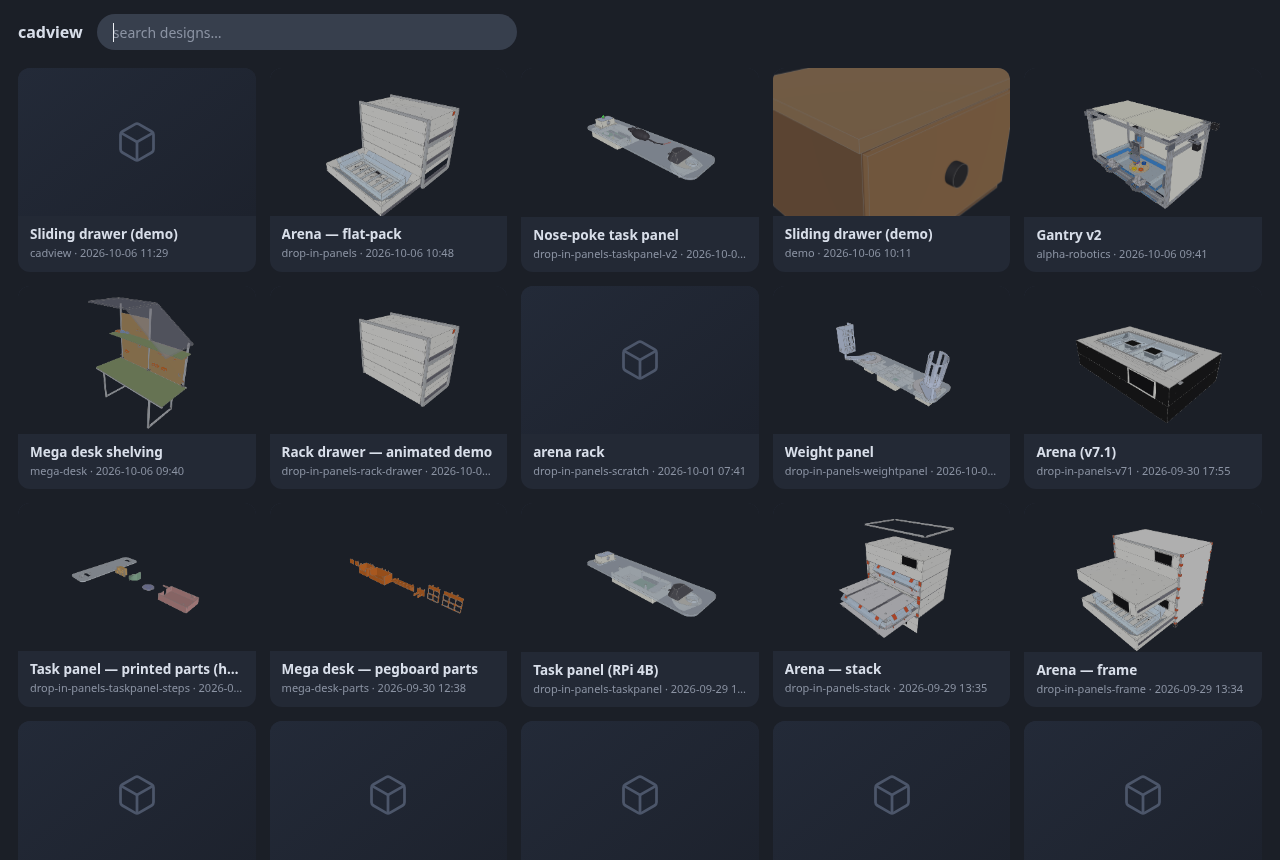
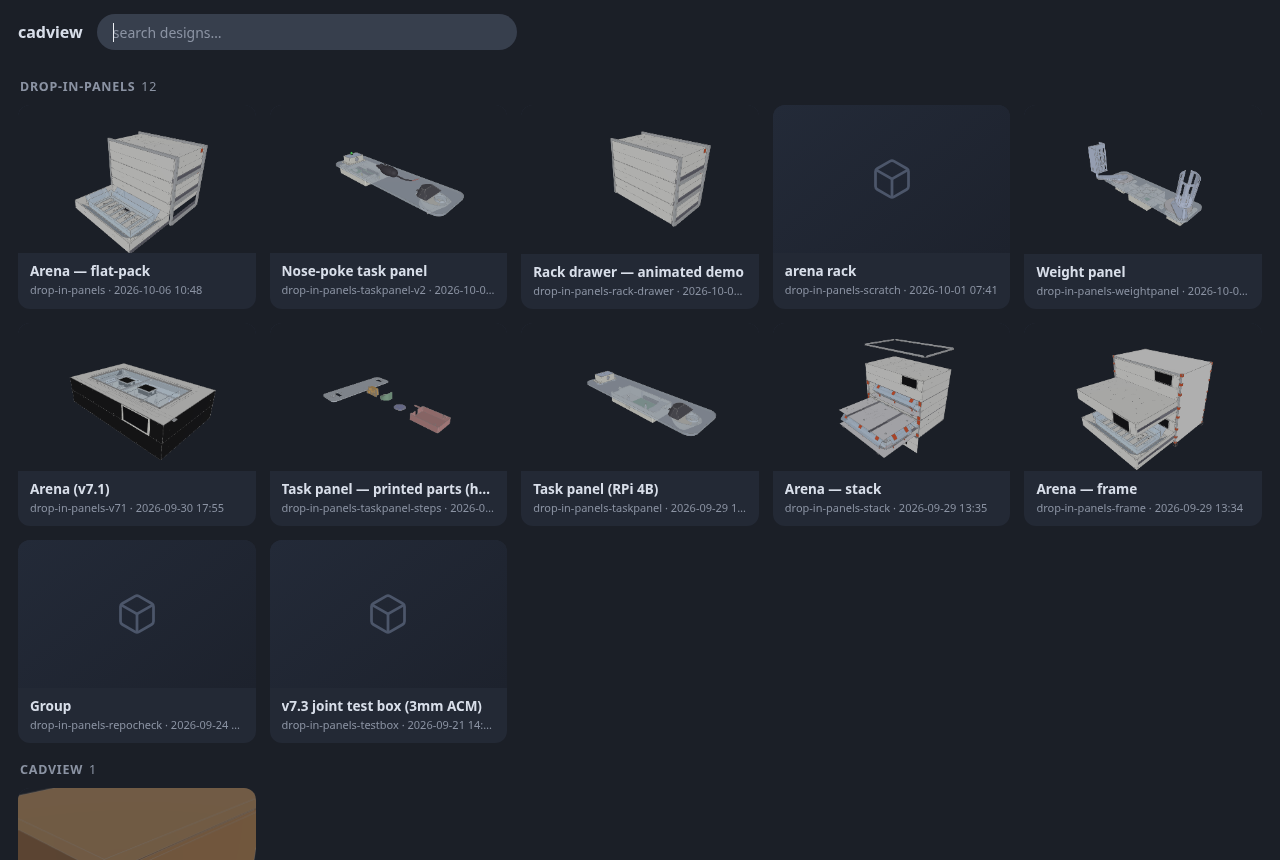
gallery: sectioned by project folder

diff --git a/cadview/static/lite/gallery.html b/cadview/static/lite/gallery.html
@@ -17,7 +17,12 @@
             padding: 0 16px; background: rgba(59, 66, 82, 0.9); color: #eceff4;
             font: 14px system-ui, sans-serif; outline: none; }
         #q::placeholder { color: #8b93a3; }
-        #grid { display: grid; gap: 14px; padding: 12px 18px 24px;
+        #groups { padding: 4px 18px 24px; }
+        .ghead { font-size: 12.5px; font-weight: 650; color: #8b93a3;
+            text-transform: uppercase; letter-spacing: 0.06em;
+            margin: 18px 2px 10px; }
+        .ghead .n { font-weight: 400; margin-left: 6px; }
+        .grid { display: grid; gap: 14px;
             grid-template-columns: repeat(auto-fill, minmax(230px, 1fr)); }
         .card { background: rgba(37, 44, 58, 0.8); border-radius: 12px;
             overflow: hidden; cursor: pointer; text-decoration: none; color: inherit;
@@ -41,50 +46,75 @@
         <h1>cadview</h1>
         <input id="q" type="search" placeholder="search designs…" autofocus />
     </header>
-    <div id="grid"></div>
+    <div id="groups"></div>
     <div id="none">nothing matches</div>
     <script>
         const PH = '<svg class="ph" width="44" height="44" viewBox="0 0 24 24" fill="none" stroke="currentColor" stroke-width="1.5"><path d="M21 16V8a2 2 0 0 0-1-1.73l-7-4a2 2 0 0 0-2 0l-7 4A2 2 0 0 0 3 8v8a2 2 0 0 0 1 1.73l7 4a2 2 0 0 0 2 0l7-4A2 2 0 0 0 21 16z"/><polyline points="3.3 7 12 12 20.7 7"/><line x1="12" y1="22" x2="12" y2="12"/></svg>';
         let rows = [];
-        const grid = document.getElementById("grid");
+        const groupsEl = document.getElementById("groups");
         const none = document.getElementById("none");
         const q = document.getElementById("q");
 
+        function card(r) {
+            const a = document.createElement("a");
+            a.className = "card";
+            a.href = "/" + encodeURIComponent(r.project);
+            const im = document.createElement("div");
+            im.className = "im";
+            const img = document.createElement("img");
+            img.loading = "lazy";
+            img.src = `/thumbs/${encodeURIComponent(r.project)}.png?v=${encodeURIComponent(r.received_at || "")}`;
+            img.onerror = () => { img.remove(); im.innerHTML = PH; };
+            im.append(img);
+            const meta = document.createElement("div");
+            meta.className = "meta";
+            const t = document.createElement("div");
+            t.className = "t";
+            t.textContent = r.title || r.name || r.project;
+            const s = document.createElement("div");
+            s.className = "s";
+            const when = (r.received_at || "").replace("T", " ").replace(/:\d\d[+-].*$/, "");
+            s.textContent = [r.project, when].filter(Boolean).join(" · ");
+            meta.append(t, s);
+            a.append(im, meta);
+            return a;
+        }
+
         function render() {
+            // one section per project folder — a fresh clone's server shows
+            // exactly its own designs; multi-repo servers get headers
             const needle = q.value.trim().toLowerCase();
-            grid.textContent = "";
-            let shown = 0;
+            groupsEl.textContent = "";
+            const byGroup = new Map();
             for (const r of rows) {
                 const hay = `${r.title || ""} ${r.name || ""} ${r.project} ${r.group || ""}`.toLowerCase();
                 if (needle && !hay.includes(needle)) continue;
-                shown++;
-                const a = document.createElement("a");
-                a.className = "card";
-                a.href = "/" + encodeURIComponent(r.project);
-                const im = document.createElement("div");
-                im.className = "im";
-                const img = document.createElement("img");
-                img.loading = "lazy";
-                img.src = `/thumbs/${encodeURIComponent(r.project)}.png?v=${encodeURIComponent(r.received_at || "")}`;
-                img.onerror = () => { img.remove(); im.innerHTML = PH; };
-                im.append(img);
-                const meta = document.createElement("div");
-                meta.className = "meta";
-                const t = document.createElement("div");
-                t.className = "t";
-                t.textContent = r.title || r.name || r.project;
-                const s = document.createElement("div");
-                s.className = "s";
-                const when = (r.received_at || "").replace("T", " ").replace(/:\d\d[+-].*$/, "");
-                s.textContent = [r.project, when].filter(Boolean).join(" · ");
-                meta.append(t, s);
-                a.append(im, meta);
-                grid.append(a);
+                const g = r.group || r.project;
+                if (!byGroup.has(g)) byGroup.set(g, []);
+                byGroup.get(g).push(r);
             }
-            none.style.display = shown ? "none" : "block";
+            const groups = [...byGroup.entries()]
+                .sort((a, b) => (b[1][0].received_at || "").localeCompare(a[1][0].received_at || ""));
+            for (const [g, list] of groups) {
+                if (groups.length > 1 || needle) {
+                    const head = document.createElement("div");
+                    head.className = "ghead";
+                    head.textContent = g;
+                    const n = document.createElement("span");
+                    n.className = "n";
+                    n.textContent = String(list.length);
+                    head.append(n);
+                    groupsEl.append(head);
+                }
+                const grid = document.createElement("div");
+                grid.className = "grid";
+                for (const r of list) grid.append(card(r));
+                groupsEl.append(grid);
+            }
+            none.style.display = groups.length ? "none" : "block";
         }
 
-        q.addEventListener("input", render);
+                q.addEventListener("input", render);
         fetch("/api/runnable", { cache: "no-store" })
             .then((r) => r.json())
             .then((d) => { rows = d.projects || []; render(); })
